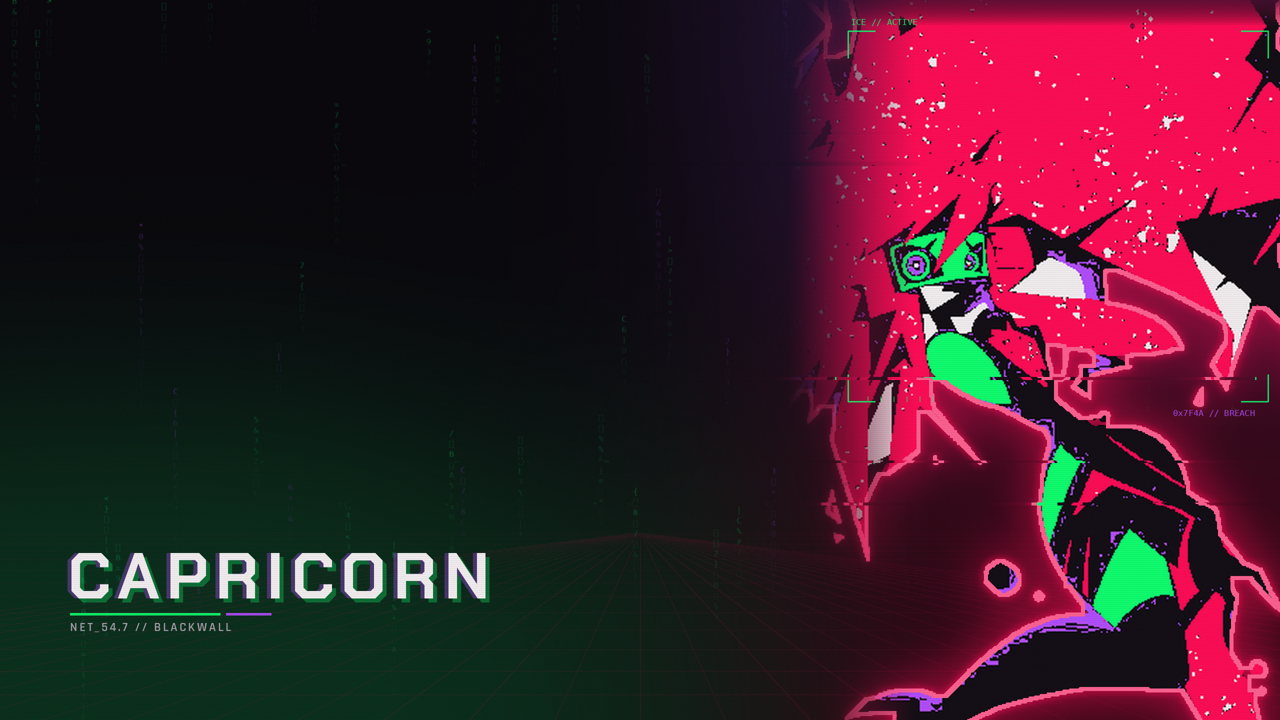
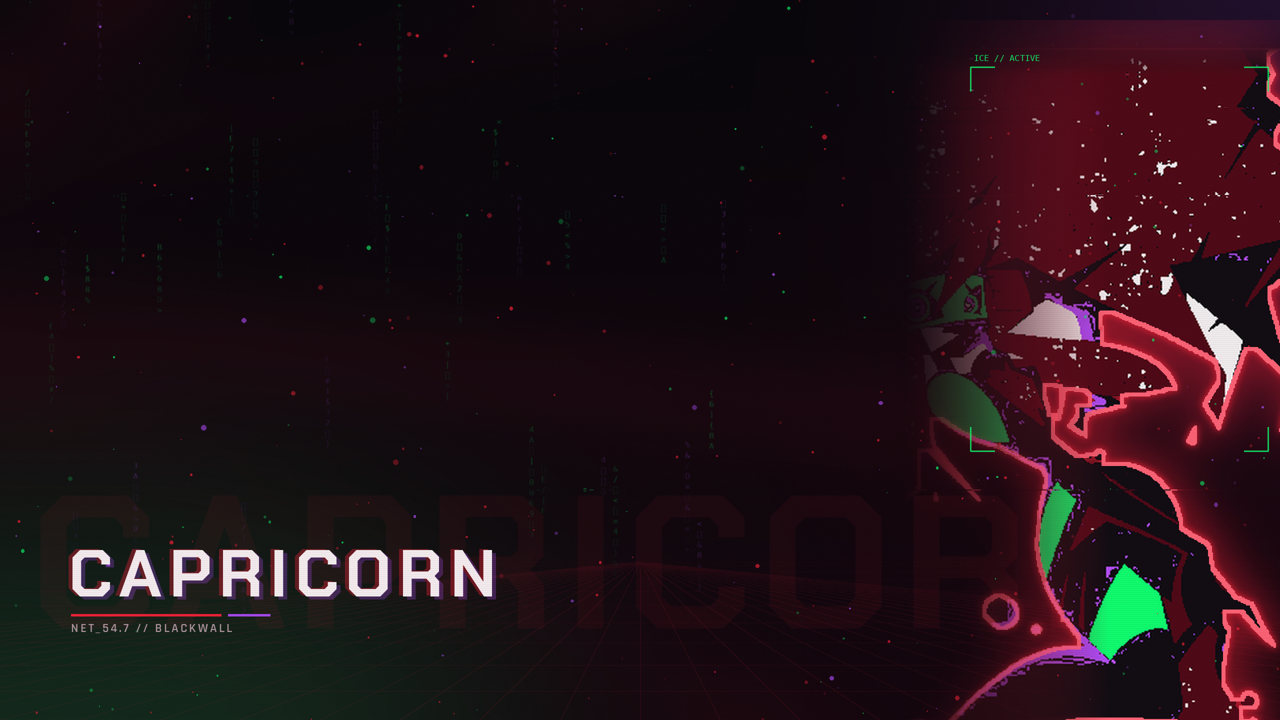
wallpaper: black hero scene with neon rim, embers and ghost wordmark

diff --git a/generate_hero_wallpaper.py b/generate_hero_wallpaper.py
@@ -1,0 +1,283 @@
+#!/usr/bin/env python3
+"""Capricorn hero wallpaper — v3.
+
+Black scene, red/purple volumetric light, halo, embers, ghost wordmark and a
+rim-lit character. Renders 2560x1440 to ~/.local/share/wallpapers/.
+"""
+
+import math
+
+import numpy as np
+from PIL import Image, ImageChops, ImageDraw, ImageFilter, ImageFont
+from scipy import ndimage
+
+W, H = 2560, 1440
+ART = "/home/marteam/Projekty/cyberpunk-capricorn/art/capricorn.png"
+OUT = "/home/marteam/.local/share/wallpapers/capricorn-character.png"
+
+INK = (5, 3, 8)
+MAGENTA = (255, 32, 56)
+DEEP = (120, 4, 30)
+GREEN = (13, 255, 110)
+VIOLET = (177, 76, 255)
+PAPER = (244, 239, 241)
+
+FONT_DIR = "/home/marteam/.local/share/fonts/cyberpunk"
+F_BOLD = f"{FONT_DIR}/ChakraPetch-Bold.ttf"
+F_RAJ = f"{FONT_DIR}/Rajdhani-SemiBold.ttf"
+
+rng = np.random.default_rng(2026)
+
+
+def font(path, size):
+    try:
+        return ImageFont.truetype(path, size)
+    except OSError:
+        return ImageFont.load_default()
+
+
+def spaced(draw, xy, text, fnt, fill, spacing=0):
+    x, y = xy
+    for ch in text:
+        draw.text((x, y), ch, font=fnt, fill=fill)
+        x += draw.textlength(ch, font=fnt) + spacing
+
+
+# ── 1. character: drop the paper, keep the flat fills ────────────────
+src = Image.open(ART).convert("RGB").crop((80, 0, 374, 534))
+a = np.array(src).astype(np.int16)
+hsv = np.array(src.convert("HSV")).astype(np.int16)
+Hh, Ss, Vv = hsv[..., 0], hsv[..., 1], hsv[..., 2]
+
+paper = (Vv > 195) & (Ss < 55)
+ink = Vv < 70
+green = (Hh > 55) & (Hh < 135) & (Ss > 70) & ~ink
+violet = (Hh >= 135) & (Hh <= 195) & (Ss > 60)
+magenta = (((Hh > 195) | (Hh < 15))) & (Ss > 70) & ~ink
+
+labels, n = ndimage.label(paper)
+border = set(labels[0, :]) | set(labels[-1, :]) | set(labels[:, 0]) | set(labels[:, -1])
+border.discard(0)
+outer_paper = np.isin(labels, list(border))
+inner_white = paper & ~outer_paper
+char = ~outer_paper
+
+out = np.zeros_like(a)
+out[...] = INK
+out[ink] = (15, 10, 16)
+out[inner_white] = PAPER
+out[magenta] = (78, 6, 20)
+out[green] = GREEN
+out[violet] = VIOLET
+
+art = Image.fromarray(out.astype("uint8"))
+mask = Image.fromarray((char * 255).astype("uint8"))
+
+TARGET_H = 1460
+scale = TARGET_H / src.height
+size = (int(src.width * scale), TARGET_H)
+art = art.resize(size, Image.LANCZOS)
+mask = mask.resize(size, Image.LANCZOS).point(lambda v: 255 if v > 110 else 0)
+
+# halo of hair above the crop (mirror + fade)
+E = int(size[1] * 0.075)
+strip_a = art.crop((0, 0, size[0], E)).transpose(Image.FLIP_TOP_BOTTOM)
+strip_m = mask.crop((0, 0, size[0], E)).transpose(Image.FLIP_TOP_BOTTOM)
+fade = Image.linear_gradient("L").resize((size[0], E))
+strip_m = ImageChops.multiply(strip_m, fade)
+ext_a = Image.new("RGBA", (size[0], E + size[1]), (0, 0, 0, 0))
+ext_m = Image.new("L", (size[0], E + size[1]), 0)
+ext_a.paste(strip_a, (0, 0), strip_m)
+ext_a.paste(art, (0, E), mask)
+ext_m.paste(strip_m, (0, 0))
+ext_m.paste(mask, (0, E))
+art, mask = ext_a, ext_m
+size = (size[0], E + size[1])
+
+# rim
+sil = mask.point(lambda v: 255 if v > 120 else 0)
+solid = sil.filter(ImageFilter.MaxFilter(15)).filter(ImageFilter.MinFilter(15))
+rim = ImageChops.subtract(solid, solid.filter(ImageFilter.MinFilter(13)))
+rim = rim.filter(ImageFilter.MaxFilter(3))
+top_fade = Image.new("L", size, 255)
+td = ImageDraw.Draw(top_fade)
+for y in range(E + 40):
+    td.line([(0, y), (size[0], y)], fill=int(255 * min(1.0, max(0.0, (y - E * 0.5) / (E * 0.5)))))
+rim = ImageChops.multiply(rim, top_fade)
+rim_col = Image.new("RGBA", size, MAGENTA + (255,))
+rim_col.putalpha(rim)
+rim_core = Image.new("RGBA", size, (255, 220, 230, 255))
+rim_core.putalpha(rim.point(lambda v: int(v * 0.35)))
+rim_glow = rim_col.filter(ImageFilter.GaussianBlur(7))
+rim_halo = rim_col.filter(ImageFilter.GaussianBlur(32))
+
+glow = Image.new("RGBA", size, MAGENTA + (255,))
+glow.putalpha(mask.point(lambda v: int(v * 0.5)))
+glow = glow.filter(ImageFilter.GaussianBlur(60))
+
+# feather the left edge
+feather = Image.new("L", size, 255)
+fd = ImageDraw.Draw(feather)
+FADE = 420
+for x in range(FADE):
+    fd.line([(x, 0), (x, size[1])], fill=int(255 * (x / FADE) ** 1.4))
+
+
+def feathered(layer):
+    o = layer.copy()
+    o.putalpha(ImageChops.multiply(layer.getchannel("A"), feather))
+    return o
+
+
+# ── 2. background ────────────────────────────────────────────────────
+canvas = Image.new("RGBA", (W, H), INK + (255,))
+
+grad = Image.new("RGB", (1, H))
+for y in range(H):
+    t = y / H
+    top = (5, 3, 8)
+    bot = (18, 3, 12)
+    grad.putpixel((0, y), tuple(int(top[i] + (bot[i] - top[i]) * t) for i in range(3)))
+canvas = grad.resize((W, H)).convert("RGBA")
+
+blooms = Image.new("RGBA", (W, H), (0, 0, 0, 0))
+bd = ImageDraw.Draw(blooms)
+bd.ellipse([W * 0.66, -H * 0.10, W * 1.10, H * 0.95], fill=(80, 3, 22, 55))
+bd.ellipse([W * 0.82, -H * 0.30, W * 1.25, H * 0.35], fill=(177, 76, 255, 40))
+bd.ellipse([-W * 0.15, H * 0.60, W * 0.45, H * 1.25], fill=(13, 255, 110, 40))
+canvas = Image.alpha_composite(canvas, blooms.filter(ImageFilter.GaussianBlur(320)))
+
+# volumetric beams from the left
+beams = Image.new("RGBA", (W, H), (0, 0, 0, 0))
+bm = ImageDraw.Draw(beams)
+for k, (slope, width, alpha) in enumerate([(-0.55, 190, 26), (-0.28, 120, 20), (0.10, 240, 18),
+                                           (0.38, 150, 14), (0.66, 90, 10)]):
+    y0 = H * (0.05 + k * 0.16)
+    bm.polygon([(0, y0), (W * 0.75, y0 + slope * W * 0.75),
+                (W * 0.75, y0 + slope * W * 0.75 + width), (0, y0 + width)],
+               fill=(255, 32, 56, alpha))
+canvas = Image.alpha_composite(canvas, beams.filter(ImageFilter.GaussianBlur(90)))
+
+# ghost wordmark
+ghost = Image.new("RGBA", (W, H), (0, 0, 0, 0))
+gd = ImageDraw.Draw(ghost)
+big = font(F_BOLD, 380)
+spaced(gd, (60, H - 560), "CAPRICORN", big, (255, 32, 56, 14), spacing=18)
+canvas = Image.alpha_composite(canvas, ghost)
+
+# glyph rain
+GLYPHS = "0123456789ABCDEF/\\|<>[]{}#$%&*+=アイウエオカキクケコサシスセソ"
+rain = Image.new("RGBA", (W, H), (0, 0, 0, 0))
+rd = ImageDraw.Draw(rain)
+gf = font("/usr/share/fonts/TTF/DejaVuSansMono.ttf", 17)
+for x in range(26, int(W * 0.58), 24):
+    if rng.random() < 0.4:
+        continue
+    col = GREEN if rng.random() < 0.55 else VIOLET
+    y = rng.uniform(-H * 0.25, H * 0.75)
+    for i in range(int(rng.integers(4, 16))):
+        ch = GLYPHS[int(rng.integers(0, len(GLYPHS)))]
+        al = int(120 * (1 - i / 16) * rng.uniform(0.35, 1.0))
+        rd.text((x, y + i * 21), ch, font=gf, fill=col + (al,))
+canvas = Image.alpha_composite(canvas, rain.filter(ImageFilter.GaussianBlur(1)))
+
+# floor grid
+grid = Image.new("RGBA", (W, H), (0, 0, 0, 0))
+gr = ImageDraw.Draw(grid)
+HZ = int(H * 0.78)
+for i in range(-20, 21):
+    gr.line([(W // 2, HZ), (W // 2 + i * (W / 16), H)], fill=(255, 32, 56, 22), width=2)
+for k in range(1, 12):
+    t = (k / 11) ** 2.1
+    y = HZ + int(t * (H - HZ))
+    gr.line([(0, y), (W, y)], fill=(255, 32, 56, int(8 + 22 * t)), width=1)
+canvas = Image.alpha_composite(canvas, grid)
+
+# halo ring behind her head
+halo = Image.new("RGBA", (W, H), (0, 0, 0, 0))
+hd = ImageDraw.Draw(halo)
+cx, cy, r = int(W * 0.80), int(H * 0.38), 330
+hd.ellipse([cx - r, cy - r, cx + r, cy + r], outline=(255, 32, 56, 90), width=3)
+hd.ellipse([cx - r - 26, cy - r - 26, cx + r + 26, cy + r + 26], outline=(177, 76, 255, 45), width=1)
+canvas = Image.alpha_composite(canvas, halo.filter(ImageFilter.GaussianBlur(12)))
+
+# ── 3. character ─────────────────────────────────────────────────────
+px = W - size[0] + 40
+py = 40
+for layer in (glow, rim_halo, rim_glow):
+    canvas.alpha_composite(feathered(layer), (px, py))
+
+body = Image.new("RGBA", size, (0, 0, 0, 0))
+body.paste(art, (0, 0), mask)
+canvas.alpha_composite(feathered(body), (px, py))
+canvas.alpha_composite(feathered(rim_col), (px, py))
+canvas.alpha_composite(feathered(rim_core), (px, py))
+
+# ── 4. embers / dust ─────────────────────────────────────────────────
+embers = Image.new("RGBA", (W, H), (0, 0, 0, 0))
+ed = ImageDraw.Draw(embers)
+for _ in range(320):
+    x = rng.uniform(0, W)
+    y = rng.uniform(0, H)
+    r = abs(rng.normal(0, 1.6)) + 0.5
+    col = MAGENTA if rng.random() < 0.6 else (GREEN if rng.random() < 0.5 else VIOLET)
+    al = int(rng.uniform(30, 190))
+    ed.ellipse([x - r, y - r, x + r, y + r], fill=col + (al,))
+canvas = Image.alpha_composite(canvas, embers)
+canvas = Image.alpha_composite(canvas, embers.filter(ImageFilter.GaussianBlur(6)))
+
+# ── 5. typography ────────────────────────────────────────────────────
+txt = Image.new("RGBA", (W, H), (0, 0, 0, 0))
+td = ImageDraw.Draw(txt)
+
+title = font(F_BOLD, 132)
+spaced(td, (146, H - 372), "CAPRICORN", title, (177, 76, 255, 70), spacing=14)
+spaced(td, (130, H - 380), "CAPRICORN", title, (255, 32, 56, 90), spacing=14)
+spaced(td, (138, H - 378), "CAPRICORN", title, (247, 239, 242, 255), spacing=14)
+
+td.rectangle([142, H - 212, 142 + 300, H - 208], fill=(255, 32, 56, 235))
+td.rectangle([456, H - 212, 456 + 84, H - 208], fill=(177, 76, 255, 235))
+spaced(td, (142, H - 200), "NET_54.7 // BLACKWALL", font(F_RAJ, 25), (176, 150, 160, 255), spacing=4)
+
+# HUD brackets
+hud = Image.new("RGBA", (W, H), (0, 0, 0, 0))
+hu = ImageDraw.Draw(hud)
+bx0 = px + size[0] * 0.18
+by0 = max(py + size[1] * 0.06, 60)
+bx1 = min(px + size[0] * 0.95, W - 24)
+by1 = min(py + size[1] * 0.55, H - 40)
+L = 48
+for x, y, dx, dy in ((bx0, by0, 1, 1), (bx1, by0, -1, 1), (bx0, by1, 1, -1), (bx1, by1, -1, -1)):
+    hu.line([(x, y + dy * L), (x, y), (x + dx * L, y)], fill=(13, 255, 110, 200), width=3)
+mono = font("/usr/share/fonts/TTF/DejaVuSansMono.ttf", 17)
+hu.text((bx0 + 6, max(by0 - 28, 24)), "ICE // ACTIVE", font=mono, fill=(13, 255, 110, 230))
+canvas = Image.alpha_composite(canvas, txt)
+canvas = Image.alpha_composite(canvas, hud)
+
+# ── 6. texture ───────────────────────────────────────────────────────
+gl = canvas.copy()
+for _ in range(4):
+    y = int(rng.uniform(H * 0.05, H * 0.9))
+    h = int(rng.uniform(2, 8))
+    sh = int(rng.uniform(-20, 20))
+    gl.paste(canvas.crop((0, y, W, y + h)), (sh, y))
+canvas = gl
+
+scan = Image.new("RGBA", (W, H), (0, 0, 0, 0))
+sd = ImageDraw.Draw(scan)
+for y in range(0, H, 4):
+    sd.line([(0, y), (W, y)], fill=(0, 0, 0, 18))
+canvas = Image.alpha_composite(canvas, scan)
+
+vig = Image.new("L", (W, H), 0)
+ImageDraw.Draw(vig).ellipse([-W * 0.22, -H * 0.3, W * 1.22, H * 1.3], fill=255)
+vig = vig.filter(ImageFilter.GaussianBlur(320))
+dark = Image.new("RGBA", (W, H), (0, 0, 0, 255))
+dark.putalpha(ImageChops.invert(vig).point(lambda v: int(v * 0.6)))
+canvas = Image.alpha_composite(canvas, dark)
+
+noise = Image.effect_noise((W, H), 18).convert("RGB")
+canvas = Image.blend(canvas.convert("RGB"), noise, 0.03).convert("RGBA")
+
+canvas.convert("RGB").save(OUT, quality=95)
+print(OUT)
